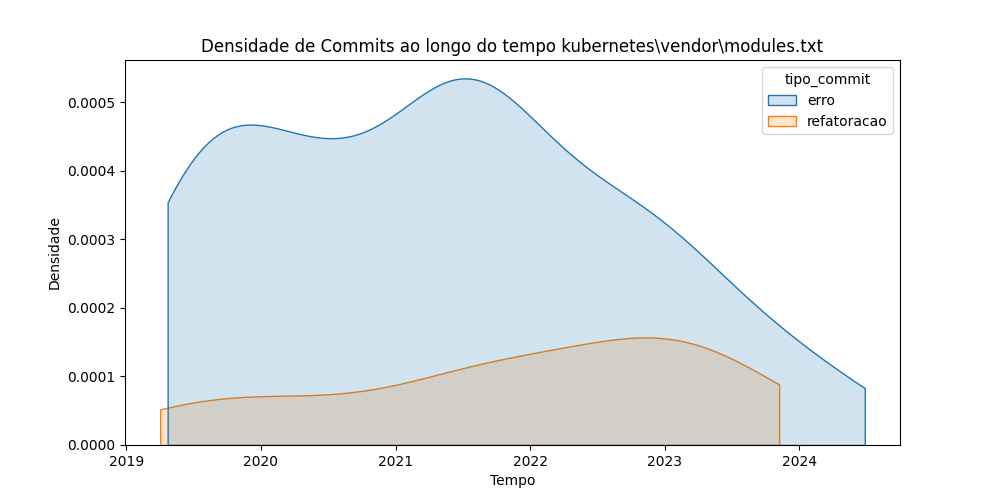
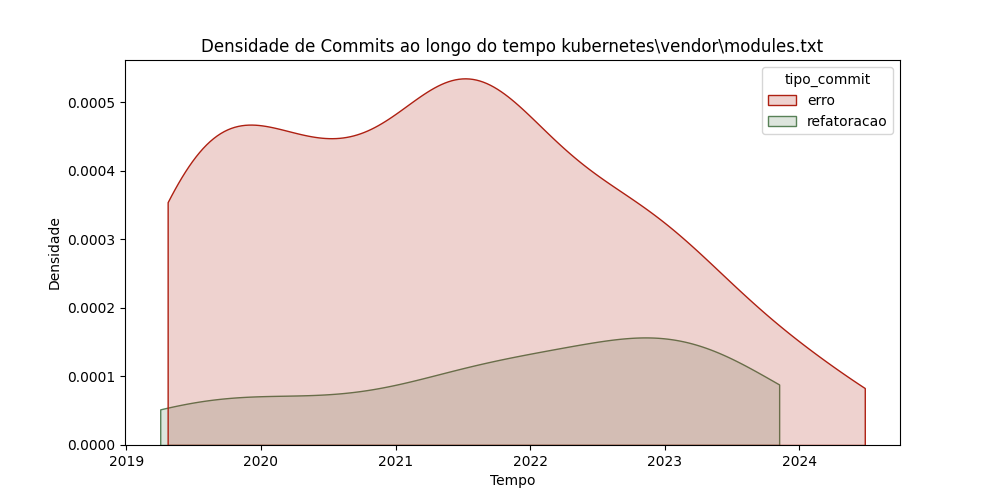
feat: add colors to graph

Changed region(s): [[0.155, 0.15, 0.868, 0.9], [0.744, 0.18, 0.806, 0.27]]

diff --git a/analisys.py b/analisys.py
@@ -120,8 +120,8 @@ def plot_density_graph(df):
         plt.figure(figsize=(10, 5))
 
         # Plotar densidade usando kdeplot e ajustando a largura da banda
-        sns.kdeplot(data=group, x='date', hue='tipo_commit',
-                    cut=0, fill=True, alpha=0.2)
+        sns.kdeplot(data=group, x='date', hue='tipo_commit', hue_order=['erro', 'refatoracao'],
+                    cut=0, fill=True, alpha=0.2, palette={'refatoracao': '#588157', 'erro': '#ae2012'})
 
         index = path.index('kubernetes')
         path = path[index:]
